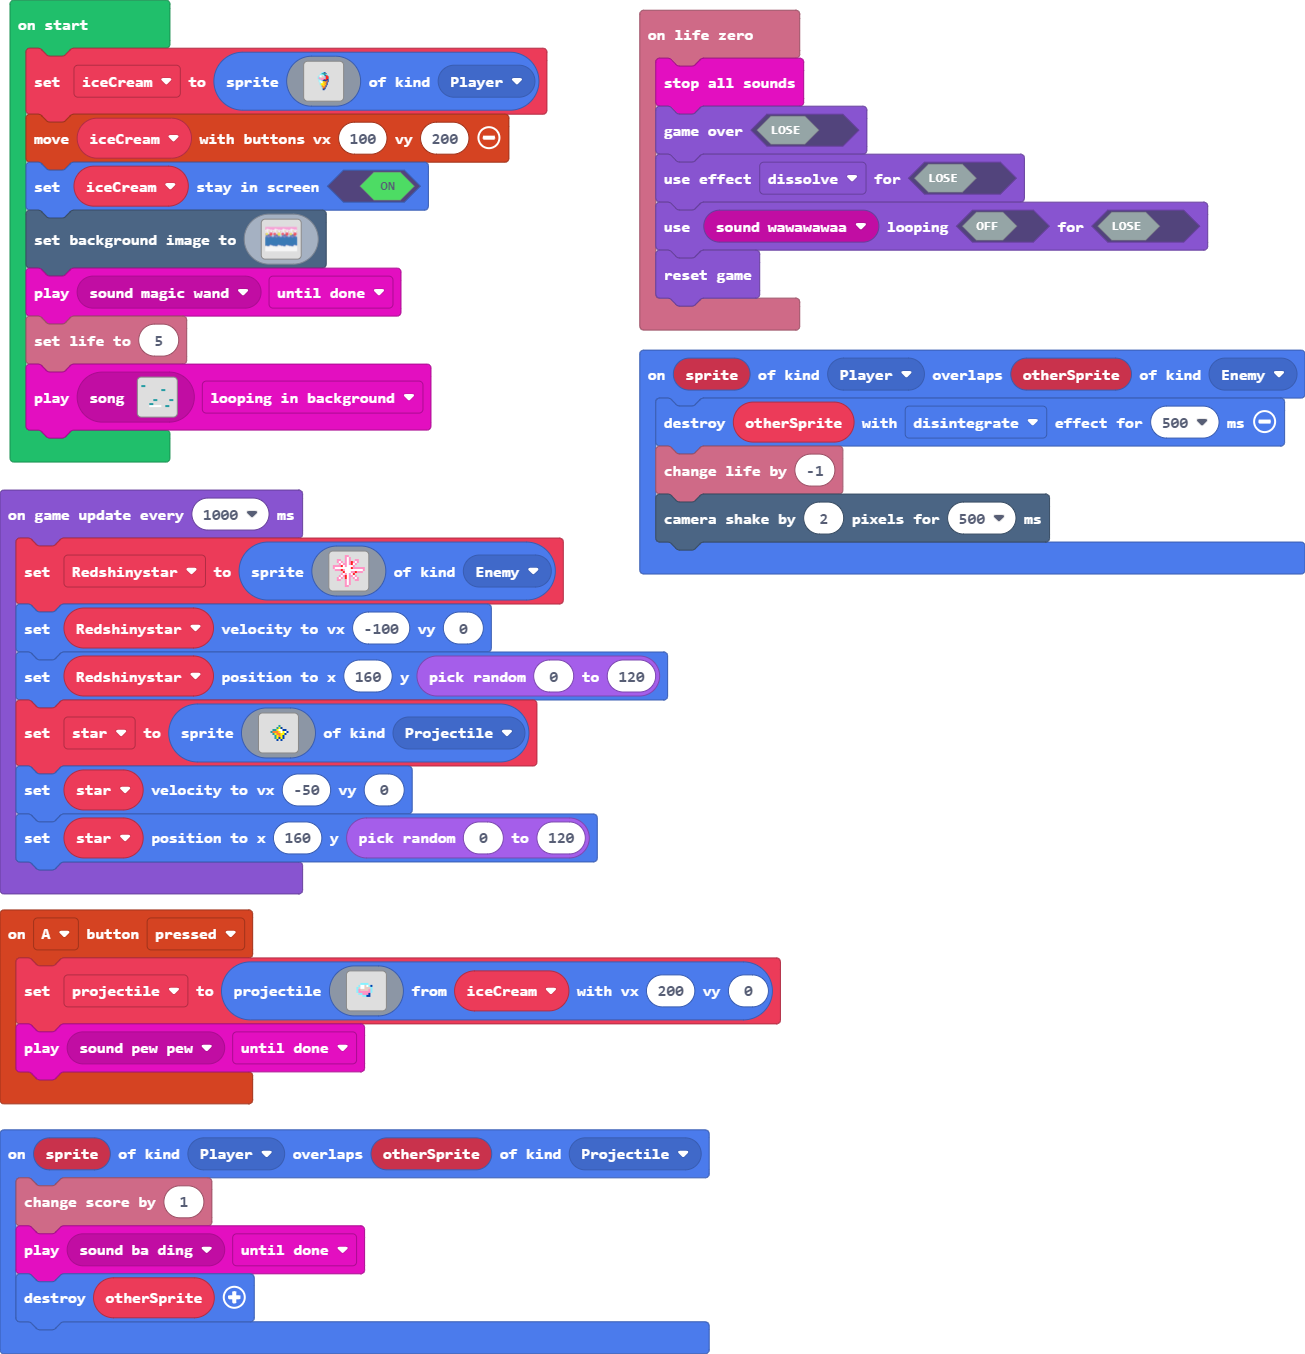
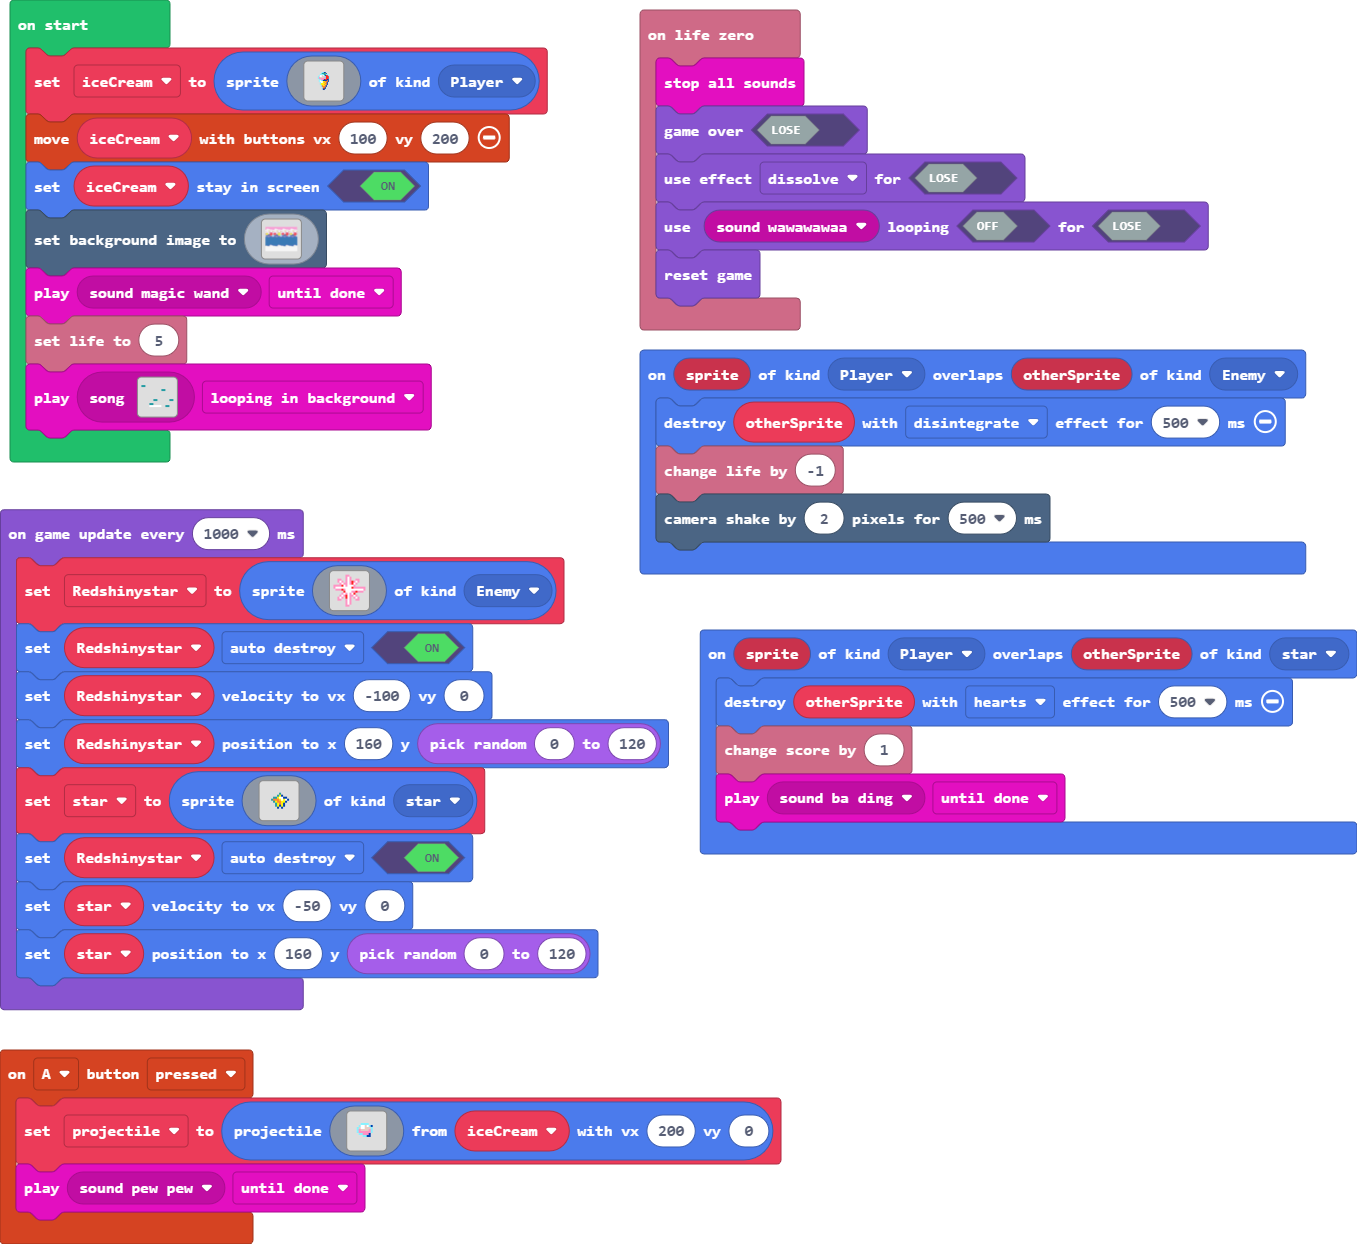
Got the overlap working

diff --git a/main.ts b/main.ts
@@ -1,3 +1,6 @@
+namespace SpriteKind {
+    export const star = SpriteKind.create()
+}
 controller.A.onEvent(ControllerButtonEvent.Pressed, function () {
     projectile = sprites.createProjectileFromSprite(img`
         . . . . . . . . . . . . . . . . 
@@ -19,17 +22,17 @@ controller.A.onEvent(ControllerButtonEvent.Pressed, function () {
         `, iceCream, 200, 0)
     music.play(music.melodyPlayable(music.pewPew), music.PlaybackMode.UntilDone)
 })
-sprites.onOverlap(SpriteKind.Player, SpriteKind.Projectile, function (sprite, otherSprite) {
-    info.changeScoreBy(1)
-    music.play(music.melodyPlayable(music.baDing), music.PlaybackMode.UntilDone)
-    sprites.destroy(otherSprite)
-})
 info.onLifeZero(function () {
     music.stopAllSounds()
     game.gameOver(false)
     game.setGameOverEffect(false, effects.dissolve)
     game.setGameOverPlayable(false, music.melodyPlayable(music.wawawawaa), false)
     game.reset()
+})
+sprites.onOverlap(SpriteKind.Player, SpriteKind.star, function (sprite, otherSprite) {
+    sprites.destroy(otherSprite, effects.hearts, 500)
+    info.changeScoreBy(1)
+    music.play(music.melodyPlayable(music.baDing), music.PlaybackMode.UntilDone)
 })
 sprites.onOverlap(SpriteKind.Player, SpriteKind.Enemy, function (sprite, otherSprite) {
     sprites.destroy(otherSprite, effects.disintegrate, 500)
@@ -220,6 +223,7 @@ game.onUpdateInterval(1000, function () {
         . . . . . . 3 1 3 . . . . . . . 
         . . . . . . 3 3 . . . . . . . . 
         `, SpriteKind.Enemy)
+    Redshinystar.setFlag(SpriteFlag.AutoDestroy, true)
     Redshinystar.setVelocity(-100, 0)
     Redshinystar.setPosition(160, randint(0, 120))
     star = sprites.create(img`
@@ -239,7 +243,8 @@ game.onUpdateInterval(1000, function () {
         . . . . . . . . . . . . . . . . 
         . . . . . . . . . . . . . . . . 
         . . . . . . . . . . . . . . . . 
-        `, SpriteKind.Projectile)
+        `, SpriteKind.star)
+    Redshinystar.setFlag(SpriteFlag.AutoDestroy, true)
     star.setVelocity(-50, 0)
     star.setPosition(160, randint(0, 120))
 })
